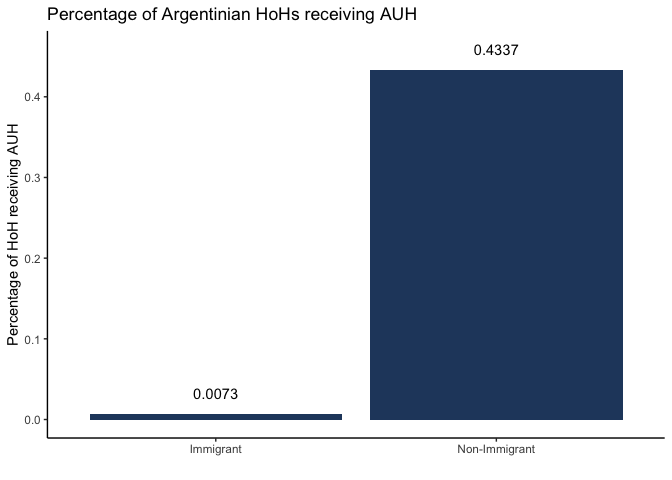
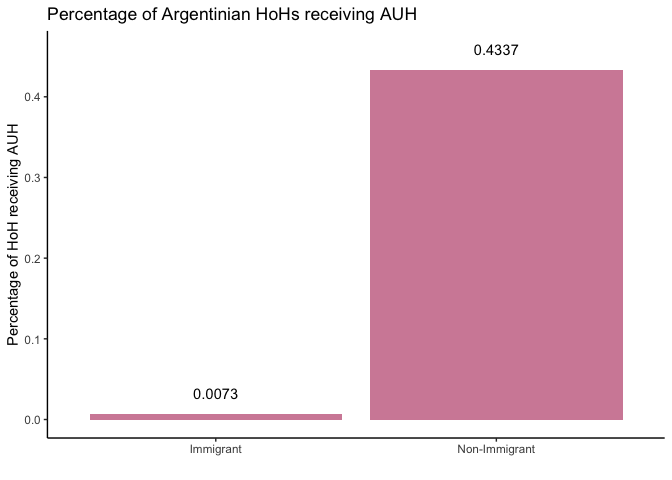
Final changes to project solutions.

Changed region(s): [[0.125, 0.125, 0.9375, 0.875]]

diff --git a/Projects/MiguelDLM/MiguelsProject_byMeri.md b/Projects/MiguelDLM/MiguelsProject_byMeri.md
@@ -53,16 +53,6 @@ assigning the intervals in which the entries fall based on that with
 `cut`) for all three dimensions in one command to avoide copy and
 pasting.
 
-    # First attempt: using too much C&P but testing if the function work like I want them to.
-    # smoothstress_animals <- smoothstress_animals %>% 
-    #   group_by(animal) %>% 
-    #   mutate(xrange = scales::rescale(X, to = c(0,1))) %>% 
-    #   mutate(yrange = scales::rescale(Y, to = c(0,1))) %>% 
-    #   mutate(zrange = scales::rescale(Z, to = c(0,1))) %>% 
-    #   mutate(xbreaks = cut(xrange, (0:10)/10)) %>% 
-    #   mutate(ybreaks = cut(xrange, (0:10)/10)) %>% 
-    #   mutate(zbreaks = cut(xrange, (0:10)/10))
-
     #Rescaling the coordinates and creating breaks
     smoothstress_animals <- smoothstress_animals %>% 
       group_by(animal) %>% 
@@ -84,22 +74,6 @@ Finally, in order to not plot a bunch of point per intervall, I am
 taking the Mean of all values in that interval.
 
     range_names <- c("X_range_breaks","Y_range_breaks","Z_range_breaks")
-
-    # First attempt: 
-    # for (i in range_names){
-    #   .data <- smoothstress_animals %>%
-    #     group_by(i, animal) %>%
-    #     summarise(Mean = mean(`Von Misses Stress`))
-    #   smoothstress_ranges <- cbind(smoothstress_ranges, .data)
-    # }
-    # Column i is not found. -> i is not read into group_by I guess
-
-    # Attempt using across(): did not return data in the format I wanted
-    # smoothstress_ranges <- smoothstress_animals %>% 
-    #   group_by(across(
-    #     .col = c(all_of(range_names), animal),
-    #   )) %>% 
-    #   summarise(MeanStress = mean(`Von Misses Stress`))
 
     for (i in range_names){
       .data <- smoothstress_animals %>%

diff --git a/Projects/Joschka8878/JoschkasProject_byMeri.md b/Projects/Joschka8878/JoschkasProject_byMeri.md
@@ -59,15 +59,16 @@ as labels (using the `plyr::round_any` to round the percentages).
       distinct() %>% 
       filter(Criterium_AUH == "Yes") %>% 
       ggplot(aes(x = as.factor(Criterium_Origin), y = Percentage))+
-      geom_col(fill="#26466C")+
+      geom_col(fill="#D38CA6")+
       geom_text(aes(label = plyr::round_any(Percentage, 0.0001, round)), nudge_y = 0.025)+
       theme_classic()+
       xlab("")+
       ylab("Percentage of HoH receiving AUH")+
       ggtitle("Percentage of Argentinian HoHs receiving AUH")
 
-![](JoschkasProject_byMeri_files/figure-markdown_strict/a-1.png) Second
-(b):
+![](JoschkasProject_byMeri_files/figure-markdown_strict/a-1.png)
+
+Second (b):
 
 > the percentage of heads of households & their spouses who are
 > immigrants who are eligible for the AUH vs. the percentage of heads of
@@ -84,15 +85,16 @@ as labels (using the `plyr::round_any` to round the percentages).
       distinct() %>% 
       ungroup() %>% 
       ggplot(aes(x = as.factor(Criterium_AUH), y = Percentage))+
-      geom_col(fill="#26466C")+
+      geom_col(fill="#D38CA6")+
       geom_text(aes(label = plyr::round_any(Percentage, 0.0001, round)), nudge_y = 0.025)+
       theme_classic()+
       xlab("")+
       ylab("Percentage of HoHs")+
       ggtitle("Eligibility of Immigrants for AUH")
 
-![](JoschkasProject_byMeri_files/figure-markdown_strict/b-1.png) And
-lastly onto (c):
+![](JoschkasProject_byMeri_files/figure-markdown_strict/b-1.png)
+
+And lastly onto (c):
 
 > of all those who are eligible, what are the percentages based on age
 > group (create age ranges), country of origin (within South America),
